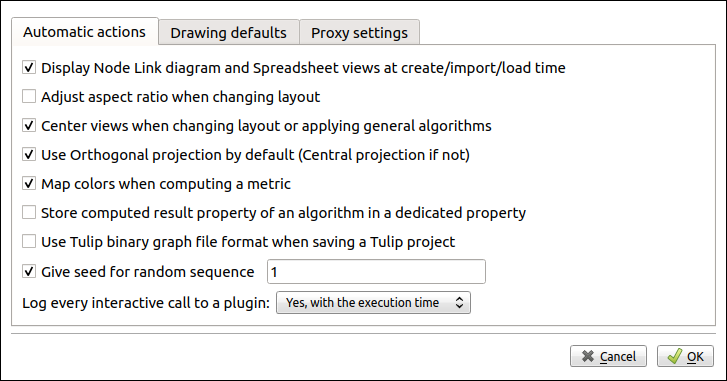
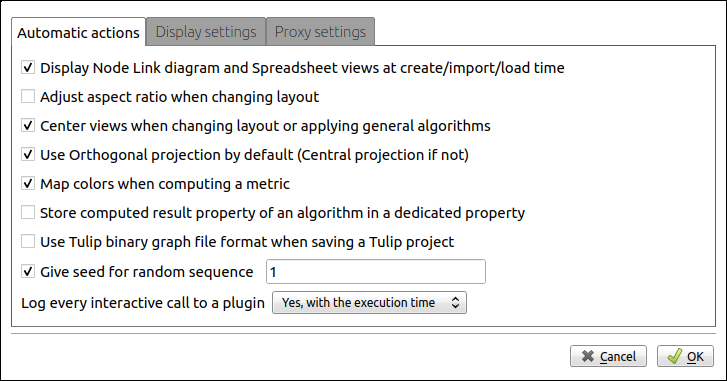
user doc fixes and updates

diff --git a/doc/user/gui.rst b/doc/user/gui.rst
@@ -73,6 +73,8 @@ The vertical toolbar, on the left of the main window, contains 8 buttons:
 
 .. image:: _images/i_panels.png
 
+When overviews are displayed, you can then double-click on a panel icon to open it, click on the cross in the top-right corner of the icon to delete it, or click again on the **Panels** button to return to the views currently displayed in the workspace.
+
 * |icon_develop| **Python**: displays the Tulip python IDE (find more in :ref:`developer_view`).
 
 * |icon_search| **Search**: displays the Search dialog (find more in :ref:`search_dialog`).
@@ -224,8 +226,8 @@ Tulip can be configured in several ways. The simplest way is to display the sett
 .. image:: _images/i_settings.png
 
 
-The *Automatic actions* settings, contains a few specific options. You can, for instance, adjust the aspect ratio when updating the layout, indicate the default projection type, automatically adapt the color according the metric being computed, display the time used to run an algorithm or indicate the graph file format to be used when saving a Tulip project.
+The *Automatic actions* tab, contains a few specific options. You can, for instance, adjust the aspect ratio when updating the layout, indicate the default projection type, automatically adapt the color according the metric being computed, display the time used to run an algorithm or indicate the graph file format to be used when saving a Tulip project.
 
-The *Drawing defaults* settings, such as the color, shape and size, are used for every new nodes and edges. The selection color is used to enhance the selected elements in the 3D views.
+The *Display settings* tab allows to choose the *Display mode* (Light or Dark) and to select the *Drawing defaults* such as the color, shape and size used for every new nodes and edges. The selection color is used to enhance the selected elements in the 3D views.
 
 You can also change the *Proxy settings* such as: the socket, the host address and the port to use. 

diff --git a/doc/user/workspace.rst b/doc/user/workspace.rst
@@ -12,7 +12,7 @@ As it has been seen in :ref:`gui`, the workspace is where all the visualization 
 Manage the panels
 =================
 
-.. |icon_workspace_macros| image:: _images/icon_workspace_macros.png
+.. |icon_show_hide_bars_add_panel| image:: _images/icon_bars_and_addpanel.png
 .. |icon_panel_arrow| image:: _images/icon_panel_arrow.png
 .. |icon_panels| image:: _images/icon_panels.png
 .. |icon_close_panel| image:: _images/icon_close_panel.png
@@ -23,19 +23,15 @@ Manage the panels
 
 When working on Tulip, you will need several panels to see all the information you need. In order to easily compare or sort your results, you can find at the bottom of the workspace a toolbar containing three groups of buttons :
 
-* |icon_workspace_macros|: here, only the first button, *Expose*, requires our attention. Clicking on it allows us to see icons representing every panel currently open.
-
-.. image:: _images/i_workspace_expose.png
-    :width: 600
-
-You can then double-click on a panel icon to open it, click on the cross in the top-right corner of the icon to delete it, or click again on the *Expose* button to return to the previously selected view.
+* |icon_show_hide_bars_add_panel|: You can show/hide the side bar in clicking on the first icon, show/hide the menu bar in clicking on the second icon, or open a new panel for the current graph in clicking on the *Add panel* button.
 
 * |icon_panel_arrow|: You can simply change the currently displayed panels by clicking on the arrows.
 
-* |icon_panels|: These icons appear depending of the number of opened panels. Clicking on one of those change the tiling of the workspace according to the icon.
+* |icon_panels|: These icons appear depending of the number of opened panels. Clicking on one of those changes the tiling of the workspace according to the icon.
 
 .. image:: _images/i_workspace_6panels.png
     :width: 600
+Here is an example of the 6-panels tiling
 
 |
 

diff --git a/doc/user/tutorial_intermediate.rst b/doc/user/tutorial_intermediate.rst
@@ -236,8 +236,6 @@ Here is the final layout. As we can see, it is not perfect, and there are some i
 Analysis of a Multivariate Dataset
 ==================================
 
-.. |icon_workspace_macros| image:: _images/icon_workspace_macros.png
-
 .. |icon_wsm_node_size_set| image:: ../../library/tulip-gui/resources/icons/20/set_node_size.png
 
 .. |icon_wsm_node_color_set| image:: ../../library/tulip-gui/resources/icons/20/set_node_color.png
